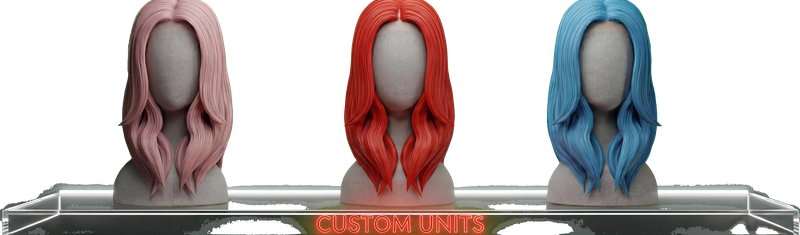
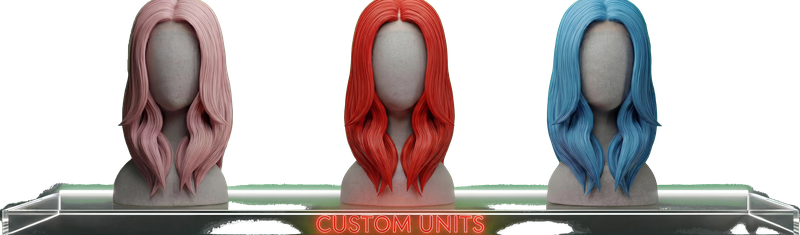
Fix shelf acrylic bake; remove shelf DOWNLOAD links
Protect bright glass and shelf body during chroma key, solidify acrylic
panel alpha, and only fringe-wipe non-shelf pixels. Drop LobbyAssetDownloadAnchor
wrappers from the three product shelves.

diff --git a/src/pages/lobby/page.tsx b/src/pages/lobby/page.tsx
@@ -394,56 +394,32 @@ const LobbyPage: React.FC = () => {
         }}>
           {/* HD LACE Shelf */}
           <div className="flex flex-col items-center">
-            <LobbyAssetDownloadAnchor
-              visible={showAssetDownloads}
-              href={LOBBY_SHELF_HD_SRC}
-              downloadFilename="hd-group.png"
-              falPrompt={LOBBY_SCENE_FAL_PROMPTS.shelfHdLace}
-              placement="bottom-center"
-            >
-              <img 
-                src={LOBBY_SHELF_HD_SRC}
-                alt="HD Lace Collection" 
-                className="w-auto md:h-20 lg:h-24"
-                style={{ height: '56px' }}
-              />
-            </LobbyAssetDownloadAnchor>
+            <img
+              src={LOBBY_SHELF_HD_SRC}
+              alt="HD Lace Collection"
+              className="w-auto md:h-20 lg:h-24"
+              style={{ height: '56px', display: 'block' }}
+            />
           </div>
-          
+
           {/* TRANSPARENT LACE Shelf */}
           <div className="flex flex-col items-center">
-            <LobbyAssetDownloadAnchor
-              visible={showAssetDownloads}
-              href={LOBBY_SHELF_TRANSPARENT_SRC}
-              downloadFilename="transparent-group.png"
-              falPrompt={LOBBY_SCENE_FAL_PROMPTS.shelfTransparentLace}
-              placement="bottom-center"
-            >
-              <img 
-                src={LOBBY_SHELF_TRANSPARENT_SRC}
-                alt="Transparent Lace Collection" 
-                className="w-auto md:h-20 lg:h-24"
-                style={{ height: '56px' }}
-              />
-            </LobbyAssetDownloadAnchor>
+            <img
+              src={LOBBY_SHELF_TRANSPARENT_SRC}
+              alt="Transparent Lace Collection"
+              className="w-auto md:h-20 lg:h-24"
+              style={{ height: '56px', display: 'block' }}
+            />
           </div>
-          
+
           {/* CUSTOM UNITS Shelf */}
           <div className="flex flex-col items-center">
-            <LobbyAssetDownloadAnchor
-              visible={showAssetDownloads}
-              href={LOBBY_SHELF_CUSTOM_SRC}
-              downloadFilename="custom-group.png"
-              falPrompt={LOBBY_SCENE_FAL_PROMPTS.shelfCustomUnits}
-              placement="bottom-center"
-            >
-              <img 
-                src={LOBBY_SHELF_CUSTOM_SRC}
-                alt="Custom Units Collection" 
-                className="w-auto md:h-20 lg:h-24"
-                style={{ height: '56px' }}
-              />
-            </LobbyAssetDownloadAnchor>
+            <img
+              src={LOBBY_SHELF_CUSTOM_SRC}
+              alt="Custom Units Collection"
+              className="w-auto md:h-20 lg:h-24"
+              style={{ height: '56px', display: 'block' }}
+            />
           </div>
         </div>
         

diff --git a/src/constants/lobbySceneAssets.ts b/src/constants/lobbySceneAssets.ts
@@ -25,7 +25,7 @@ export const LOBBY_ROSE_BACKGROUND_SRC_REMOTE =
 export const LOBBY_ROSE_BACKGROUND_SRC = `/assets/landing-background.png?v=${LOBBY_BACKGROUND_ASSET_VERSION}`;
 
 /** Bump when re-baking shelf PNGs (`npm run lobby:bake-shelves`). */
-export const LOBBY_SHELF_ASSET_VERSION = 'RQY7-v2';
+export const LOBBY_SHELF_ASSET_VERSION = 'RQY7-v3';
 
 export const LOBBY_SHELF_HD_SRC_REMOTE =
   'https://hyycomvcaqxxvyrfupes.supabase.co/storage/v1/object/public/live-preview/LP%20Images/RQY7MNHaS7mk5m9RKKMd__Qtm01P5p.jpeg';
